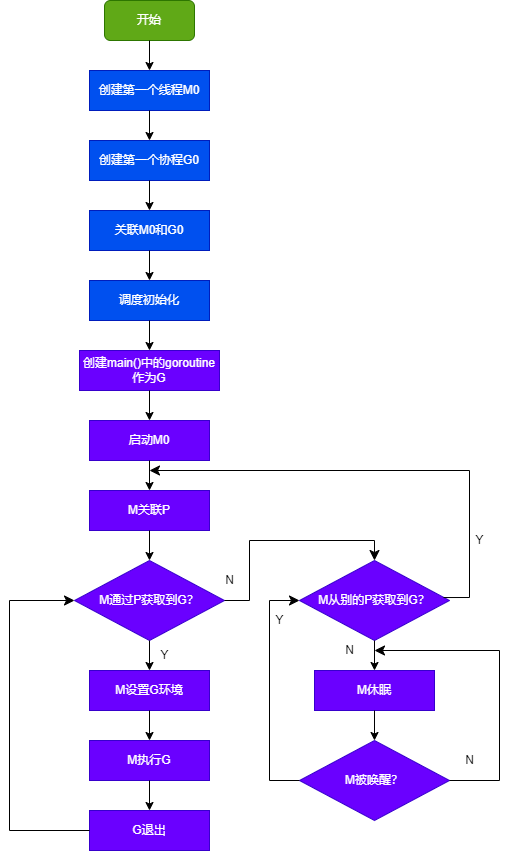
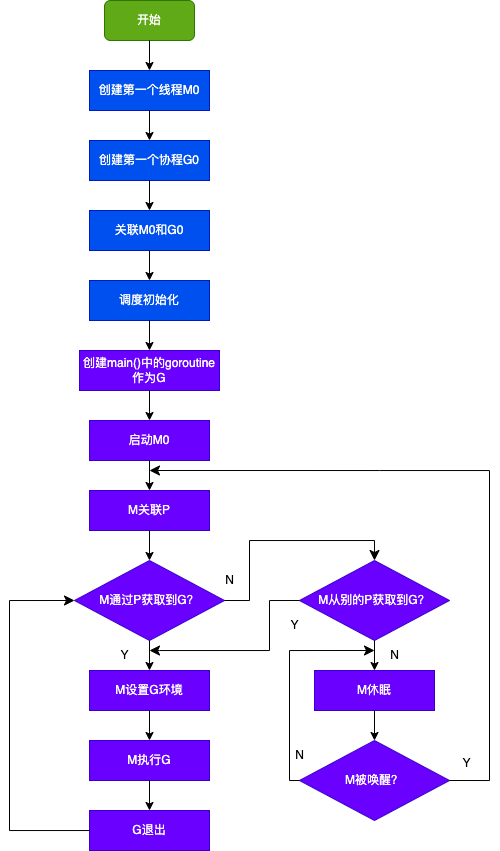
modify the error in the scheduler image

diff --git a/Shorthand/ProgramLanguage/Go/CurrencyControl.md b/Shorthand/ProgramLanguage/Go/CurrencyControl.md
@@ -5,4 +5,5 @@ goroutine是可并发执行的最小的Go的实体，是建立在线程之上的
 - 创建与销毁：线程的创建和销毁会进入os内核态，因此开销比较大（通常的解决办法是线程池）。但是goroutine的创建和销毁都是go自行管理，它的调度是在用户态完成的，开销更小。
 - 切换：线程的调度方式是抢占式的，发生线程抢占时，在线程切换过程中需要保存/恢复寄存器信息。（如通用寄存器、Program Counter、Stack Pointer、段寄存器等）而goroutine的调度是协同式的，在进行切换时，只需要很少量的寄存器的保存和恢复（Program Counter、Stack Pointer和Base Pointer），因此切换效率更高。
 
-# 什么是go scheduler？
+# goroutine的生命周期？
+

diff --git a/DetailedExplanation/ProgramLanguage/Go/CurrencyControl.md b/DetailedExplanation/ProgramLanguage/Go/CurrencyControl.md
@@ -38,3 +38,8 @@ M：在没有足够数量的M来关联P去运行G时，M就会被创建。
 
 ## 调度的生命周期
 ![Scheduler Lifecycle](schedulerLifecycle.png)
+在这个生命周期里，第一个线程`M0`和第一个goroutine `G0`是比较特殊的。
+
+`M0`是启动程序后编号为0的主线程，这个M0对应的实例会在全局变量`runtime.m0`中，不会在heap上分配，M0负责执行初始化和启动第一个G，之后这个M0就和普通的M一样了。
+
+`G0`是每次启动一个M都会创建的第一个goroutine，`G0`是仅用于负责调度的G，它不指向任何可执行的函数，每一个`M`都会有自己的`G0`。在调度或系统调用时会使用`G0`的栈空间，全局变量的`G0`是`M0`的`G0`。
